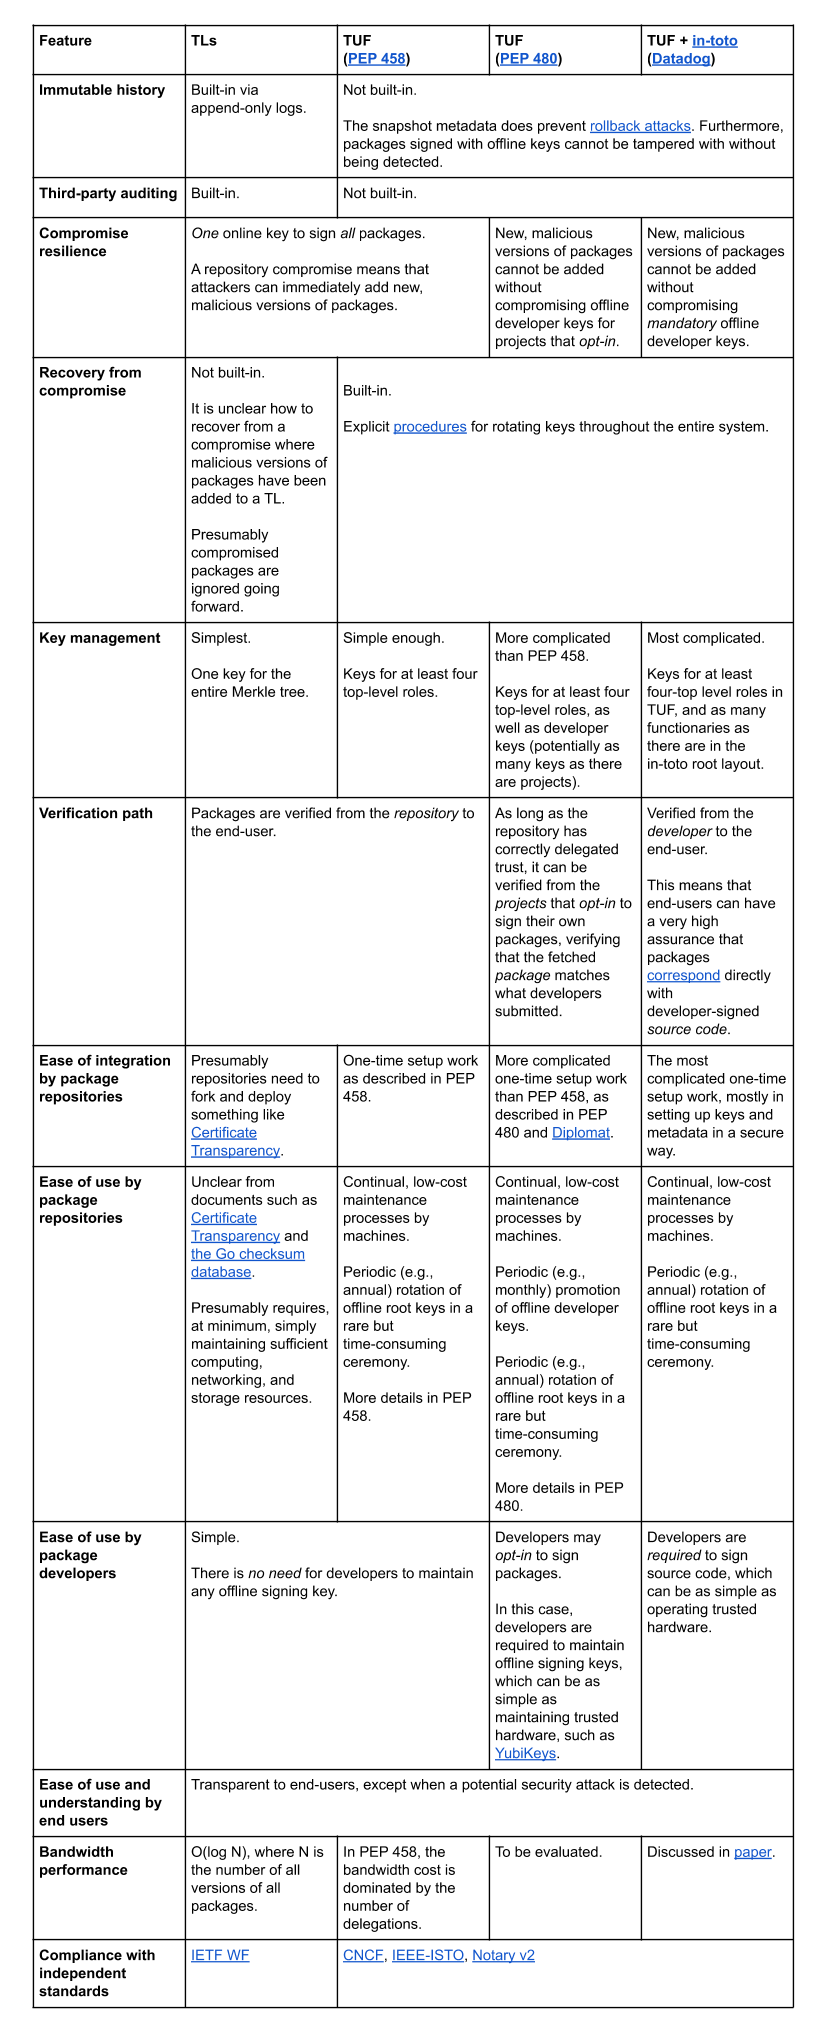
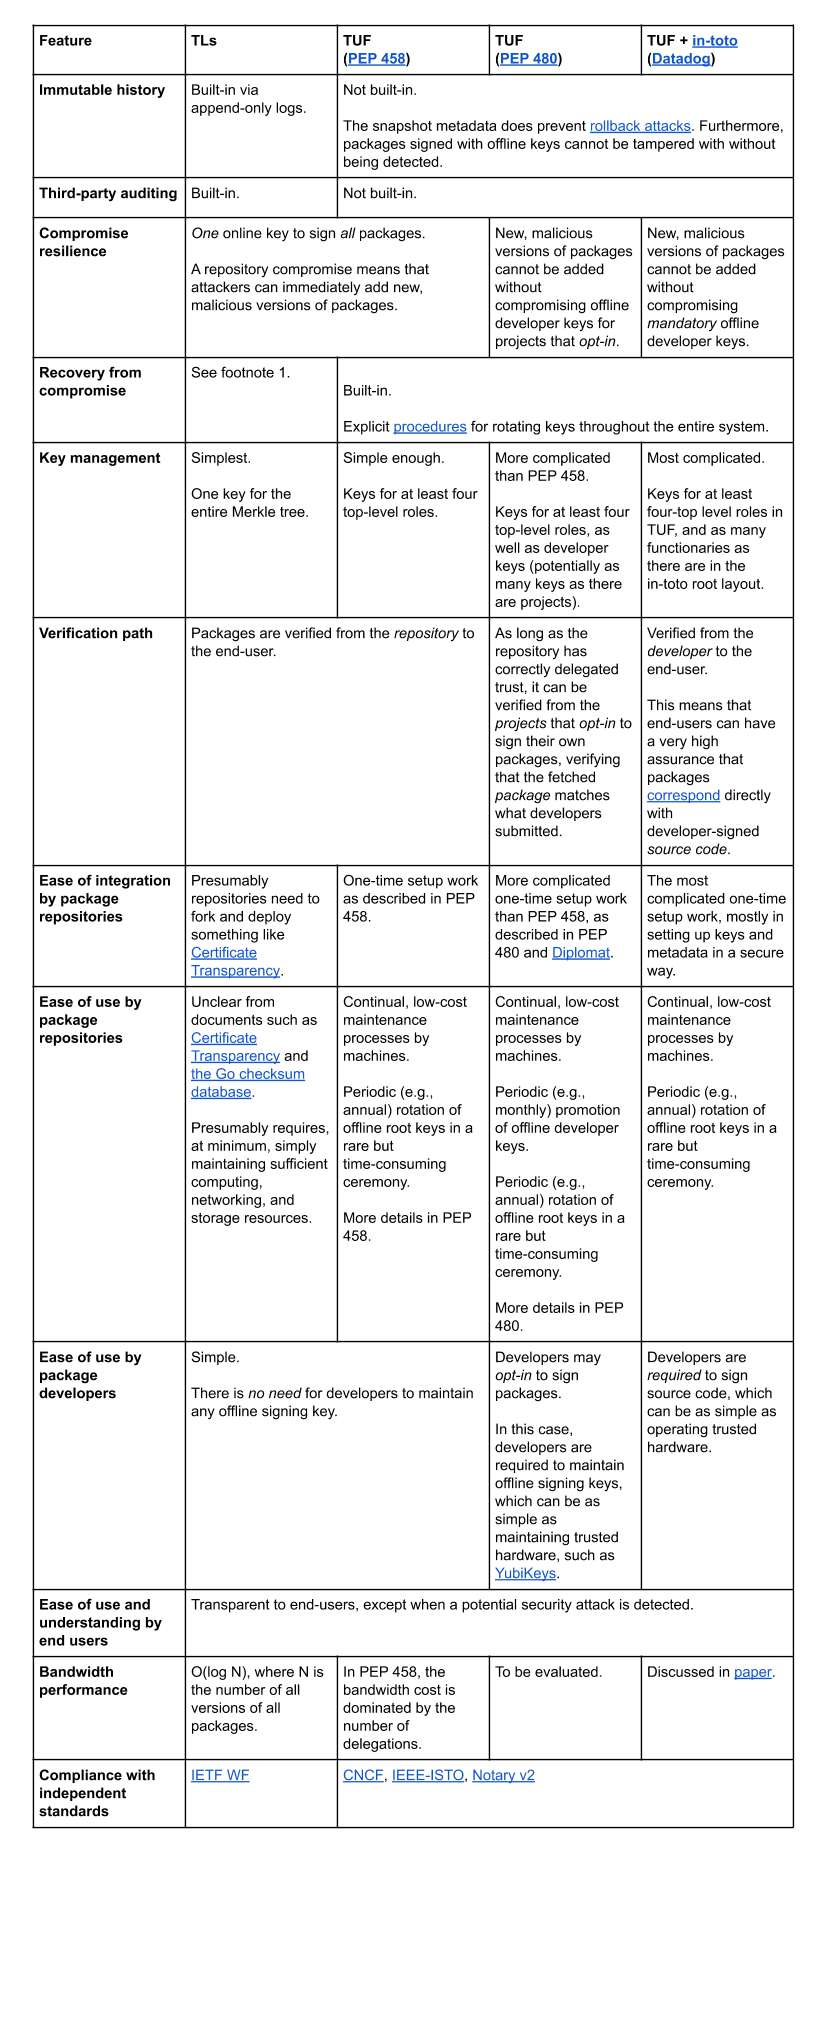
clarify subtle diff in compromise recovery

diff --git a/_posts/2020-02-03-transparent-logs.md b/_posts/2020-02-03-transparent-logs.md
@@ -15,9 +15,9 @@ Both Transparent Logs and The Update Framework were designed to protect end-user
 
 ## Introduction
 
-In recent conversations about the effectiveness of [The Update Framework (TUF)](https://theupdateframework.io/) à la [Docker Content Trust](https://docs.docker.com/engine/security/trust/content_trust/) and [Uptane](https://uptane.github.io/) as a method to prevent package tampering, the idea of [Transparent Logs (TLs)](https://research.swtch.com/tlog) à la [Certificate Transparency](https://www.certificate-transparency.org/) and the [Go checksum database](https://go.googlesource.com/proposal/+/master/design/25530-sumdb.md) often came up. It became clear to us that there is some genuine confusion about what these two technologies have to offer, and which might be better, given that different attacks often require different types of defenses. In response, we have compiled the strengths and weaknesses of each technology to help repository managers select the best strategy for securing the packages they host.
+In recent conversations about the effectiveness of [The Update Framework (TUF)](https://theupdateframework.io/) à la [Docker Content Trust](https://docs.docker.com/engine/security/trust/content_trust/) and [Uptane](https://uptane.github.io/) as a method to prevent package tampering, the idea of [Transparent Logs (TLs)](https://research.swtch.com/tlog) à la [Certificate Transparency](https://www.certificate-transparency.org/) and the [Go sumdb](https://go.googlesource.com/proposal/+/master/design/25530-sumdb.md) often came up. It became clear to us that there is some genuine confusion about what these two technologies have to offer, and which might be better, given that different attacks often require different types of defenses. In response, we have compiled the strengths and weaknesses of each technology to help repository managers select the best strategy for securing the packages they host.
 
-Both TLs and TUF can be used to protect packages from being tampered with by man-in-the-middle attacks (MitM) attackers. Both systems were designed around the principle that package repositories are not naively trusted by package managers. Both systems provide signed hashes of packages, so that package managers can verify the integrity of downloaded packages with some degree of authenticity. In contrasting these solutions, the primary difference appears to be that TLs seek to provide immutable history via append-only logs, as well as third-party auditing of these logs, whereas TUF concentrates on providing a higher degree of compromise resilience, as well as recovery from compromise when, and not if, it happens.
+Both TLs and TUF can be used to protect packages from being tampered with by man-in-the-middle attacks (MitM) attackers. Both systems were designed around the principle that package repositories are not naively trusted by package managers. Both systems provide signed hashes of packages, so that package managers can verify the integrity of downloaded packages with some degree of authenticity. In contrasting these solutions, the primary difference appears to be that TLs seek to provide immutable history via append-only logs, as well as third-party auditing of these logs, whereas TUF concentrates on providing a higher degree of compromise resilience, as well as recovery from compromise when, and not if, it happens [^1].
 
 In plain terms, if the main goal is to have a public list of packages that different auditors check, TLs provide this functionality. If one wants to be able to limit the damage from a repository or key compromise and securely recover from this, TUF provides this functionality.
 
@@ -36,13 +36,13 @@ We define a compromise as a situation where attackers can control all of the fol
 
 ## Immutable history and third-party auditing vs. compromise resilience and recovery
 
-TLs provide some compromise resilience in that they prevent old logs containing old versions of packages from being deleted, even if the log itself has been taken over. This is in addition to preventing MitM attacks on end-users. Furthermore, third-party auditing allows for detection of new, malicious versions of packages [^1]. And, it does all of this without requiring package developers to sign anything. However, although third-party auditing can help to detect these malicious, new versions of packages, it does not prevent them from being added in the first place [^2]. In addition, third-party auditing requires an interested third party to provide resources toward detecting malicious packages. This auditing model does not scale to small projects with fewer users or resources.
+TLs provide some compromise resilience in that they prevent old logs containing old versions of packages from being deleted, even if the log itself has been taken over. This is in addition to preventing MitM attacks on end-users. Furthermore, third-party auditing allows for detection of new, malicious versions of packages [^2]. And, it does all of this without requiring package developers to sign anything. However, although third-party auditing can help to detect these malicious, new versions of packages, it does not prevent them from being added in the first place [^3]. In addition, third-party auditing requires an interested third party to provide resources toward detecting malicious packages. This auditing model does not scale to small projects with fewer users or resources.
 
 TUF can be configured (à la [Diplomat](https://www.usenix.org/node/194973), [PEP 458](https://www.python.org/dev/peps/pep-0458/), and [PEP 480](https://www.python.org/dev/peps/pep-0480/)) to provide a higher degree of compromise resilience in that attackers cannot tamper with all packages without being detected. To do so, though, some developers must be willing to sign their packages independently of the repository. Furthermore, it also provides explicit procedures out-of-the-box to recover from a compromise when, and not if, it happens. However, TUF relies on checks performed on metadata from the repository. Without an immutable history and third-party audits, a compromise of multiple keys means that attackers can replace metadata and packages on the repository in a way that is not immediately detectable by package managers (e.g., by dropping packages). This is more problematic in cases where the repository automatically signs metadata for package developers.
 
 In a nutshell, the security provided by TLs is heavily dependent on the ability of large organizations, such as Google, to prevent a repository compromise. Since TLs do not prevent new, malicious versions of packages from being added in this scenario, and do not immediately provide ways to recover from such attacks, prevention of these attacks becomes much more important.
 
-In contrast, TUF can be configured so that malicious versions of packages either cannot be added to the repository, or, if added, will not be trusted by package managers. This simple but significant difference means that security can easily be maintained by independent or nonprofit package repository maintainers with significantly less resources than those of large tech organizations, such as Google. In exchange for this simplicity, TUF’s security relies on repository administrators, as well as package developers who choose to opt into it, maintaining the security of offline keys.
+In contrast, TUF can be configured so that malicious versions of packages either cannot be added to the repository, or, if added, will not be trusted by package managers. This simple but significant difference means that security can easily be maintained by independent or nonprofit package repository maintainers with significantly less resources than those of large tech organizations, such as Google. In exchange for this simplicity, the security of TUF relies on repository administrators, as well as package developers who choose to opt into it, maintaining the security of offline keys.
 
 Therefore, situations where one strategy might be preferable over another may be dictated by which of these purposes is most important. We also propose that, because the two technologies are complementary, adopting both could offer enhanced security against a larger variety of attacks than using just one.
 
@@ -70,18 +70,21 @@ In particular, the Datadog TUF and in-toto integration mentioned in the last col
 
 ## Conclusion
 
-TLs and TUF both help secure package repositories, but their priorities and goals differ, and so provide complementary virtues. When used separately, TLs provide an immutable history of a repository with third-party auditing, whereas TUF provides compromise resilience and procedures for recovering from a compromise. Used together, these technologies can provide all of the aforementioned properties. If anyone would like to implement a combination of TLs and TUF, or discuss the differences between these systems, please reach out to us on [the TUF mailing list](https://groups.google.com/forum/?fromgroups#!forum/theupdateframework).
+TLs and TUF both help secure package repositories, but their priorities and goals differ, and so provide complementary virtues. When used separately, TLs provide an immutable history of a repository with third-party auditing, whereas TUF provides better compromise resilience and procedures for recovering from a compromise. Used together, these technologies can provide all of the aforementioned properties. If anyone would like to implement a combination of TLs and TUF, or discuss the differences between these systems, please reach out to us on [the TUF mailing list](https://groups.google.com/forum/?fromgroups#!forum/theupdateframework).
 
 ## Acknowledgements
 
-We would like to thank Justin Cappos, Nick Coghlan, Lois Anne DeLong, Ernest W. Durbin III, Sumana Harihareswara, Joshua Lock, Santiago Torres-Arias, and the Python community for their feedback.
+We would like to thank Justin Cappos, Nick Coghlan, Lois Anne DeLong, Ernest W. Durbin III, Sumana Harihareswara, Joshua Lock, Santiago Torres-Arias, Filippo Valsorda, and the Python community for their feedback.
 
 ## Footnotes
 
-[^1]: A major design goal for Google was to make sure that the community would not have to trust them blindly, and thus these mechanisms are a means to an end, which is removing trust. Both TLs and TUF share this design goal of removing as much trust as possible from the package / metadata repository or log.
+[^1]: Since this article was published, we have [learned](https://github.com/secure-systems-lab/ssl-site/issues/95) that the procedure for recovering from a key compromise for TLs is, to _some_ extent, comparable to PEP 458 security model for TUF. It is best illustrated using the following scenario. Suppose that before time K, online key X was used. At time K, this online key X is compromised. After time K, we switch trust to online key Y instead. Using TLs (e.g., Go sumdb), the log will be signed using both online keys X and Y. This is so that [Go binary distributions](https://golang.org/doc/install) released before time K that are effectively baked with X can continue to trust the TL. Subsequent Go binary distributions will be baked with Y instead. Presumably, X will be considered deprecated / compromised, and some grace period will be allowed before X is completely revoked (i.e., no longer used to sign the TL).  Using TUF (PEP 458), there is no need to issue a new software update to permanently replace trust in X with Y. The TUF metadata repository administrators would use the offline keys for the `targets` role (not even necessarily the higher-level `root` role) to do so. Both old and new versions of the package manager can continue to permanently switch trust from X to Y, despite [backwards-incompatible](https://github.com/theupdateframework/taps/pull/107) changes to TUF metadata. There is no need to deprecate X and offer a grace period because it is no longer used. We feel that this is a subtle but important difference.
 
-[^2]: In fact, assuming that the TL and package repository are independent, this does not even require attackers to compromise the TL. Since the TL would [automatically](https://go.googlesource.com/proposal/+/master/design/25530-sumdb.md#checksum-database) fetch missing versions of packages, all attackers would have to to do is to add malicious versions of packages to the repository (such as the GitHub repository belonging to the package developers), and somehow convince developers to refer to these malicious versions (say, by publishing new tags on GitHub). In this sense, TLs still depend on [Trust-On-First-Use (TOFU](https://go.googlesource.com/proposal/+/master/design/25530-sumdb.md#module-authentication-with)). While Go encourages pinning packages using [Semantic Versioning](https://semver.org/), which ameliorates the issue to some extent, the fact remains that malicious versions of packages can still be added automatically, which is especially problematic when package managers such as [`pip`](https://pypi.org/project/pip/) automatically try to find the latest versions of packages.
+[^2]: A major design goal for Google was to make sure that the community would not have to trust them blindly, and thus these mechanisms are a means to an end, which is removing trust. Both TLs and TUF share this design goal of removing as much trust as possible from the package / metadata repository or log.
+
+[^3]: In fact, assuming that the TL and package repository are independent, this does not even require attackers to compromise the TL. Since the TL would [automatically](https://go.googlesource.com/proposal/+/master/design/25530-sumdb.md#checksum-database) fetch missing versions of packages, all attackers would have to to do is to add malicious versions of packages to the repository (such as the GitHub repository belonging to the package developers), and somehow convince developers to refer to these malicious versions (say, by publishing new tags on GitHub). In this sense, TLs still depend on [Trust-On-First-Use (TOFU](https://go.googlesource.com/proposal/+/master/design/25530-sumdb.md#module-authentication-with)). While Go encourages pinning packages using [Semantic Versioning](https://semver.org/), which ameliorates the issue to some extent, the fact remains that malicious versions of packages can still be added automatically, which is especially problematic when package managers such as [`pip`](https://pypi.org/project/pip/) automatically try to find the latest versions of packages.
 
 ## Changelog
 
 1. 2020-02-05: Added a footnote about the shared design goal of [removing trust](https://github.com/secure-systems-lab/ssl-site/issues/96).
+1. 2020-02-06: Added a footnote that covers the procedure for [recovering](https://github.com/secure-systems-lab/ssl-site/issues/95) from a key compromise in TLs.
